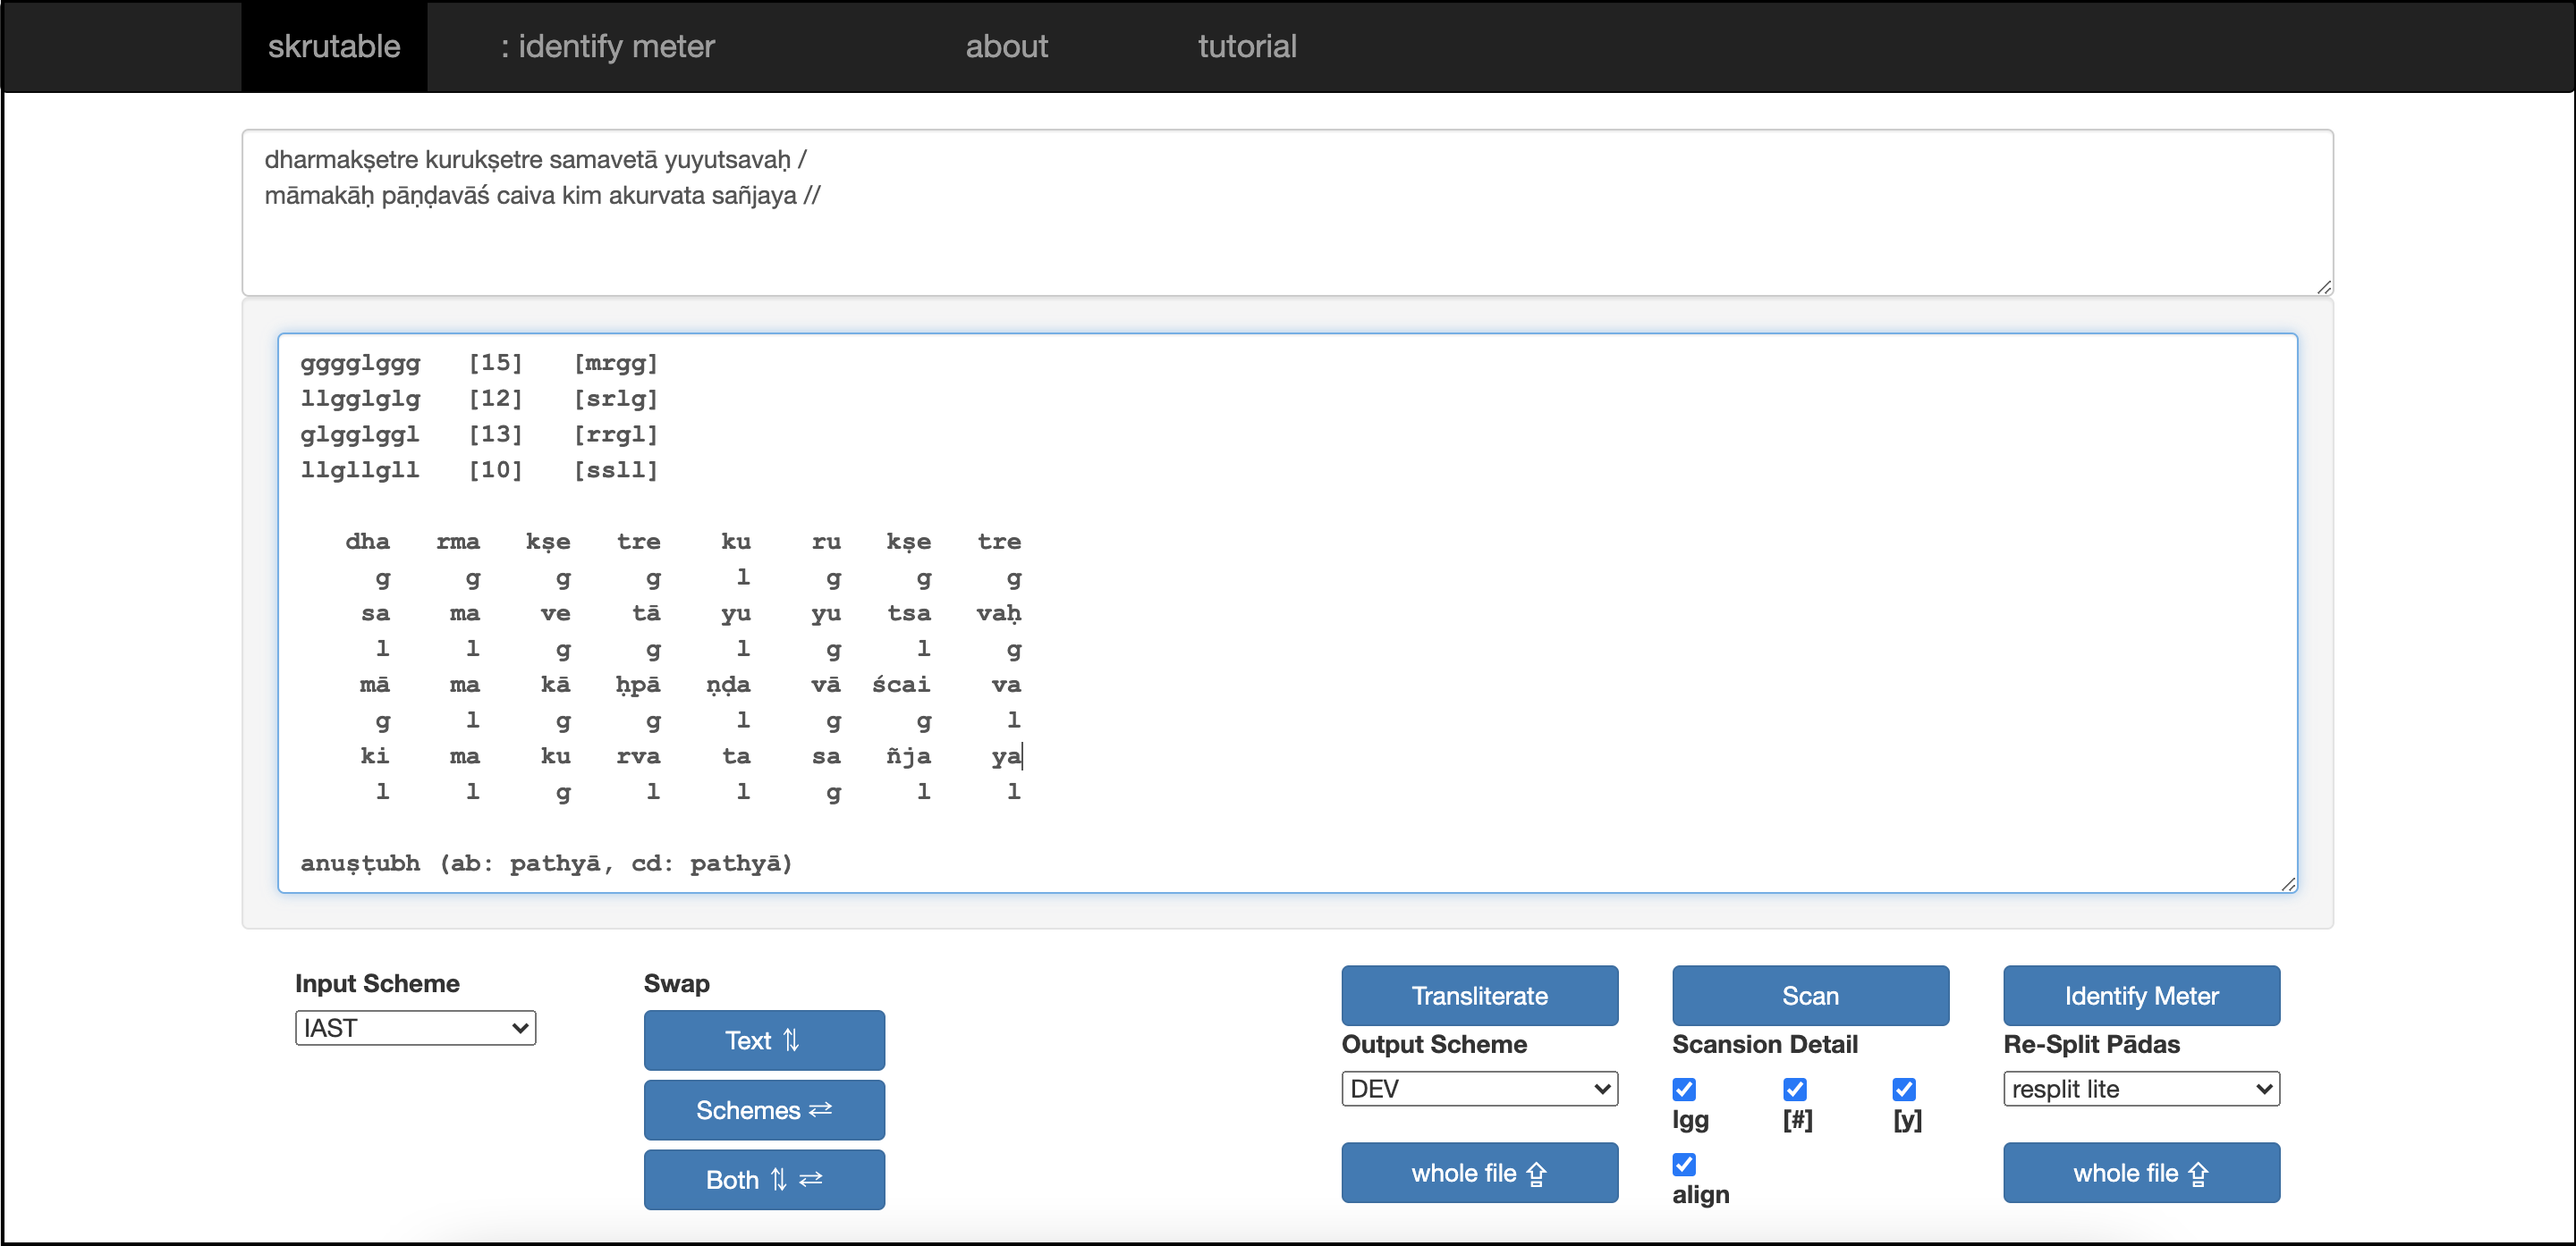
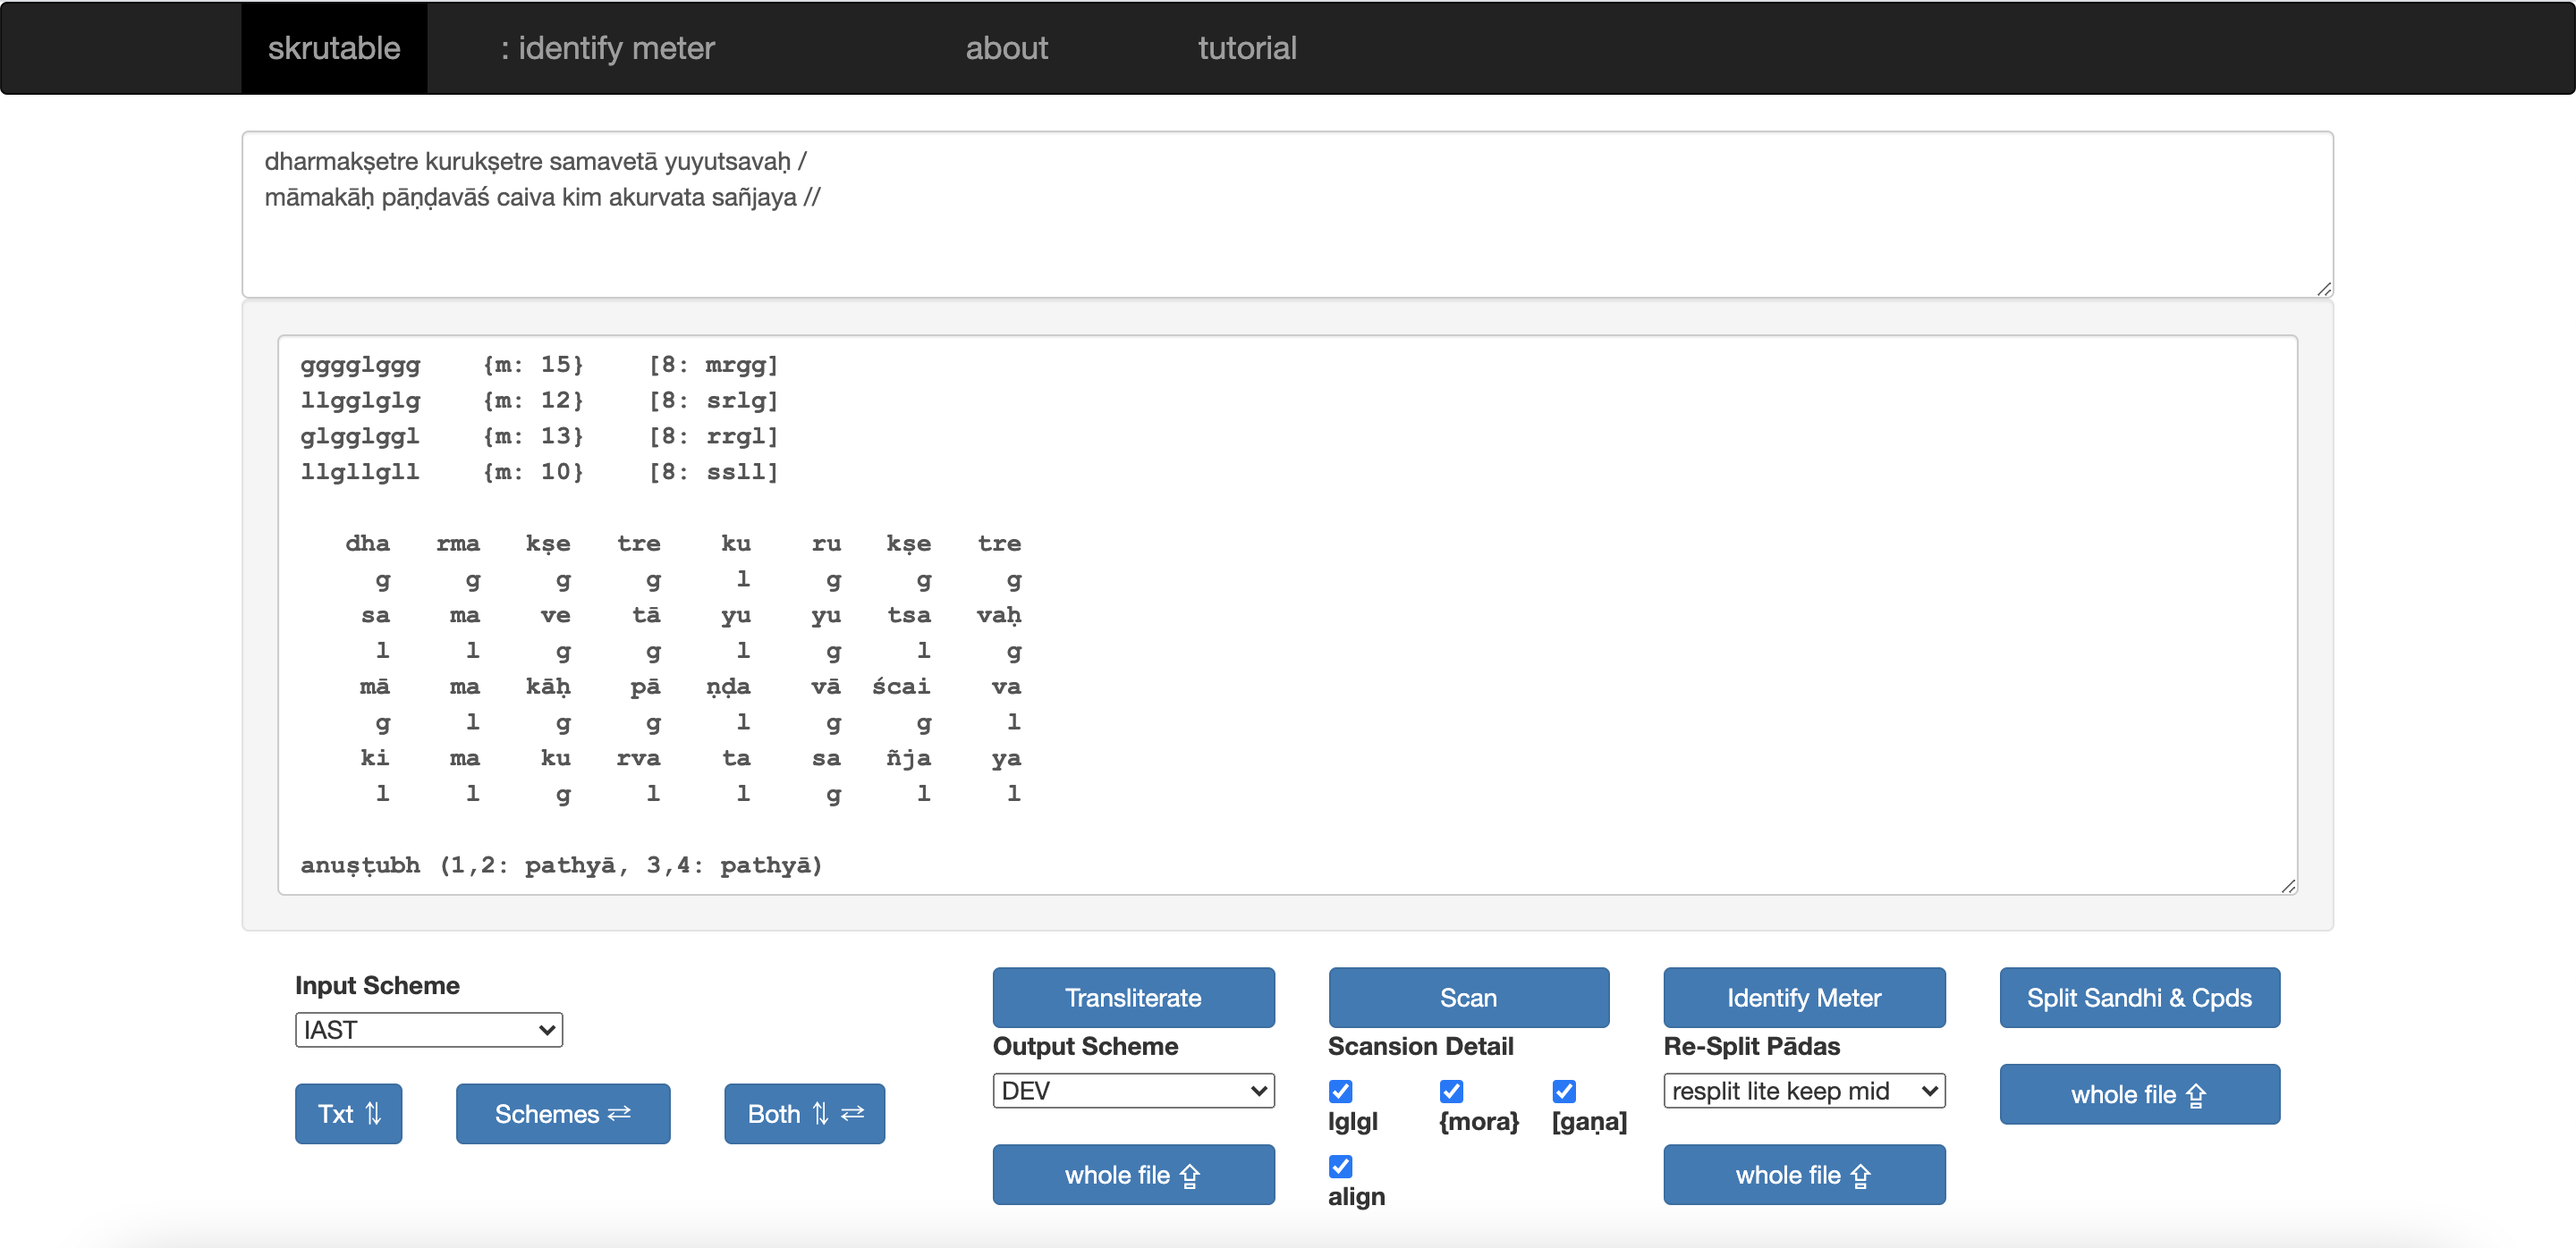
update README and screenshot for Splitter etc.

diff --git a/manual.md b/manual.md
@@ -6,7 +6,7 @@ For whys and where-tos, see [skrutable.pythonanywhere.com/about](http://skrutabl
 # how to use
 
 The online web app at [skrutable.pythonanywhere.com](http://skrutable.pythonanywhere.com)
-will let you do both casual one-off tasks and also whole-file processing.
+provides easy access to both casual one-off and also whole-file processing.
 
 ![screenshot](img/web_app.png)
 
@@ -79,9 +79,9 @@ Sanskrit can be written in many ways. The schemes featured in `skrutable` are:
     </tbody>
 </table>
 
-There is also a very lossy “IASTreduced” (e.g., “samskrtam pathamah”) which I find sometimes comes in handy. Additional academic schemes not currently featured include CSX (Classical Sanskrit eXtended, e.g. “saüskçtaü paòâmaþ”), REE (by Ronald E. Emmerick, e.g. “saæsktaæ paèÃma÷”), and the scheme internal to the [DCS](http://www.sanskrit-linguistics.org/dcs/index.php) (by Oliver Hellwig, e.g. “saºskŸtaº paÅåmaµ”). 
+There is also a very lossy “IASTreduced” (e.g., “samskrtam pathamah”) output option which I find sometimes comes in handy. Additional academic schemes not currently featured include CSX (Classical Sanskrit eXtended, e.g. “saüskçtaü paòâmaþ”), REE (by Ronald E. Emmerick, e.g. “saæsktaæ paèÃma÷”), and the scheme internal to the [DCS](http://www.sanskrit-linguistics.org/dcs/index.php) (by Oliver Hellwig, e.g. “saºskŸtaº paÅåmaµ”). 
 
-More schemes for writing Sanskrit, especially those corresponding to additional Indic scripts, can easily be added to `skrutable` by modifying the code in `phonemes.py` and `scheme_maps.py`. I'm happy to help with this. Alternatively, for other tools with wider character support, including for other South Asian languages, see [related projects](#related-projects) below.
+More schemes for writing Sanskrit, especially those corresponding to additional Indic scripts, can easily be added to `skrutable` by modifying the code in `phonemes.py` and `scheme_maps.py`. I'm happy to help with this. Alternatively, for other tools more focused on wider character support, including for other South Asian languages, see [related projects](#related-projects) below.
 
 Note that I use “encoding” here in the sense of UTF-8 (most often as in over and above ASCII) and “script” in the sense of a distinct character set like either the Roman or Devanagari alphabets (latter actually an abugida), and so I don't use either “Roman” or “Unicode” to refer to any of the individual schemes. For more thoughts on such terminology, see [here](http://indology.info/email/members/wujastyk/) and [here](http://sanskritlibrary.org/Sanskrit/pub/lies_sl.pdf).
 
@@ -138,6 +138,11 @@ asty eva >> ( अस्त्य् एव ) >> अस्त्येव
 This is the default behavior for transliterating to Indic scripts in `skrutable`. In the code, the regular expressions governing this can be found in `virAma_avoidance.py`, and the overall setting can be toggled in `config.py`.
 
 
+# sandhi and compound splitting
+
+For splitting Sanskrit text into its individual words, both breaking compounds and dissolving sandhi, the powerful neural-network tool of Hellwig and Nehrdich, [Sanskrit Sandhi and Compound Splitter](https://github.com/OliverHellwig/sanskrit/tree/master/papers/2018emnlp), has been producing good and usable results since its 2018 release, even without re-training the model (examples: [here](https://github.com/tylergneill/pramana-nlp/tree/master/3_text_doc_and_word_segmented) and [here](https://github.com/sebastian-nehrdich/gretil-quotations)), but it has not been accessible for most users (being command-line only and requiring setup of `Python 3.5` and `TensorFlow 1.x`). Now, however, `skrutable` provides a wrapper, accessible through its online interface, for easily applying the pre-trained model while also preserving original sentence length and punctuation.
+
+
 # using the code
 
 
@@ -156,9 +161,11 @@ This is the default behavior for transliterating to Indic scripts in `skrutable`
 	* Not? Then you can put it where your other packages normally install to (e.g. with `pip`).
 		* (Hint: command line `python -c "import sys; print(sys.path)"` to see where.)
 
-* Get the other necessary Python libraries: 
-	* currently only `numpy` for scheme detection (`pip` recommended) (*scheme detection currently under repair*)
+* Get the other necessary Python libraries (`pip` recommended):
+	* (for scheme-detection *currently under repair*) `numpy`
 	* (should already be natively pre-installed: `collections`, `copy`, `json`, `operator`, `os`, `re`)
+	* (for front-end) `flask`
+	* (for splitter.wrapper) `Python 3.5` (`penv` recommended) and `tensorflow 1.x`
 
 
 ## using as local web app
@@ -170,13 +177,14 @@ See [here](https://flask.palletsprojects.com/en/1.1.x/quickstart/) for more inst
 
 ## using as library
 
-From each respective module (`transliteration.py`, `scansion.py`, `meter_identification.py`), import the respective object constructor (`Transliterator`, `Scanner`, `MeterIdentifier`), instantiate the object, and call its primary methods (`transliterate()`, `scan()`, `identify_meter()`). Transliteration returns a string, whereas scansion and meter identification return `Scansion.Verse` objects, which contain (among other things) a `meter_label` attribute and a `summarize()` method.
+From each respective module (`transliteration.py`, `scansion.py`, `meter_identification.py`, `splitter.wrapper.py`), import the respective object constructor (`Transliterator`, `Scanner`, `MeterIdentifier`, `Splitter`), instantiate the object, and call its primary methods (`transliterate()`, `scan()`, `identify_meter()`, `split()`). Transliteration and sandhi/compound splitting returns a string, whereas scansion and meter identification return `Scansion.Verse` objects, which contain (among other things) a `meter_label` attribute and a `summarize()` method.
 
 The following are the important function parameters:
 
-* transliteration: `from_scheme`, `to_scheme` (`IAST`, `HK`, `SLP`, `ITRANS`, `VH`, `WX`, `IASTreduced`, `DEV`, `BENGALI`, `GUJARATI`)
-* scansion: `show_weights`, `show_morae`, `show_gaRas`, `show_alignment`
-* meter identification: `resplit_option` (`none`, `resplit_lite`, `resplit_max`)
+* transliteration: `from_scheme` and `to_scheme` (`IAST`, `HK`, `SLP`, `ITRANS`, `VH`, `WX`, `IASTreduced`, `DEV`, `BENGALI`, `GUJARATI`), 
+* scansion: `show_weights`, `show_morae`, `show_gaRas`, `show_alignment` (`True`, `False`)
+* meter identification: `resplit_option` (`none`, `resplit_lite`, `resplit_max`), `keep_mid` (`True`, `False`)
+* sandhi/compound splitting: `prsrv_punc` (`True`, `False`)
 
 Examples:
 
@@ -212,6 +220,16 @@ print( Verse_result_2.summarize() ) # default 'show' options
 Verse_result_3 = MI.identify_meter(input_string, from_scheme='IAST', resplit_option='resplit_lite')
 print( Verse_result_3.summarize(show_morae=False) ) # default further 'show' options
 ~~~
+
+3. `skrutable.splitter.wrapper`, `splitter.wrapper.Splitter`, `Splitter.split()`
+~~~
+from skrutable.splitter.wrapper import Splitter
+Spl = Splitter()
+string_result_1 = Spl.split( input_string_1 ) # default prsrv_punc
+string_result_2 = Spl.split( input_string_2, prsrv_punc=False )
+~~~
+
+Note that use of the Splitter wrapper in this way requires further setup: In `splitter/wrapper_config.json`, set the value for `python_3_5_bin_path` to the absolute path to `Python 3.5` on your own machine, and make sure that `tensorflow 1.x` (e.g., 1.15) is installed for that particular version of Python (e.g., `pip3.5 install tensorflow==1.15.0`).
 
 More examples of how to use the library can be found in the repo's `tests` folder (for use with `pytest`) and in the `jupyter_notebooks` folder.
 
